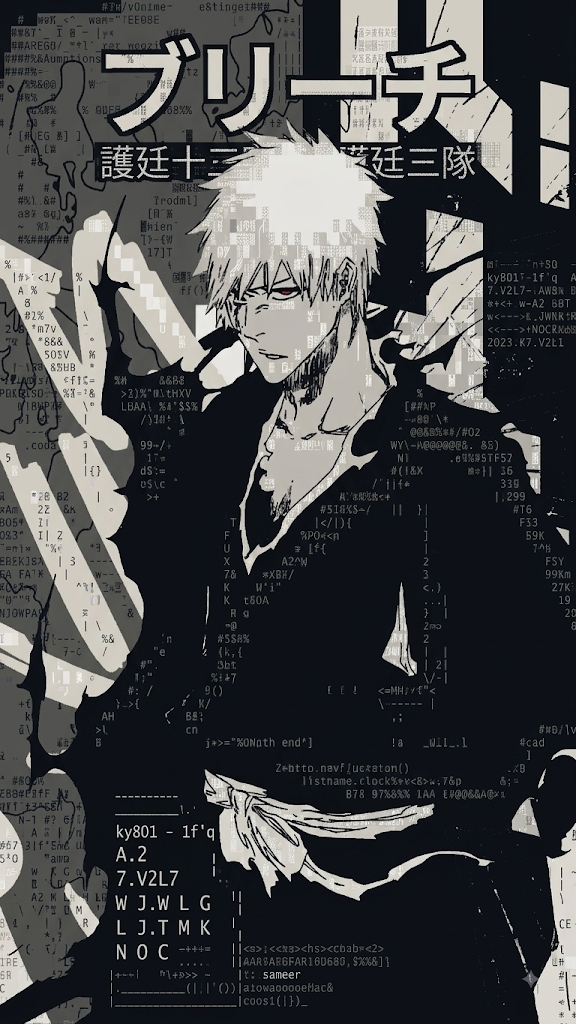
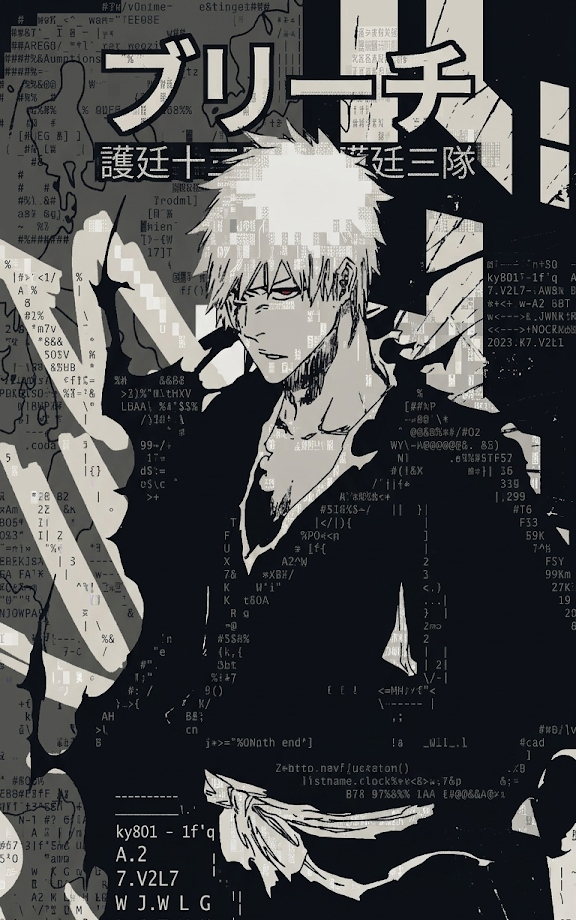
style: crop and resize About Me artwork for bottom alignment with code block

diff --git a/README.md b/README.md
@@ -17,7 +17,7 @@ Building intelligent systems with clean architecture, data science, and scalable
 
 <h2 align="center">🧑💻 About Me</h2>
 
-<img align="right" src="./assets/ichigo.png" width="240" alt="Bleach Illustration"/>
+<img align="right" src="./assets/ichigo.png" width="230" alt="Bleach Illustration"/>
 
 ```python
 class Sameer:
